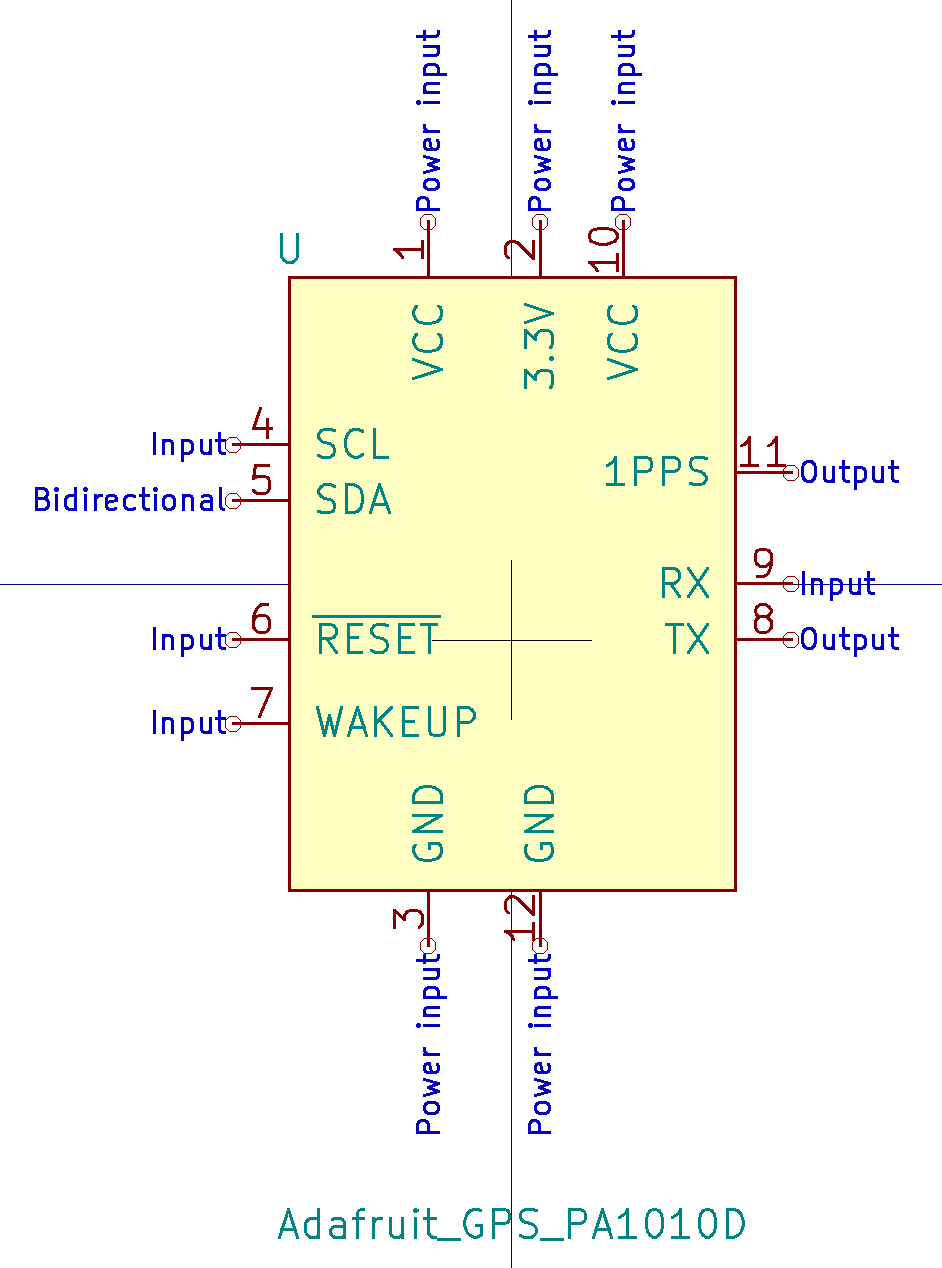
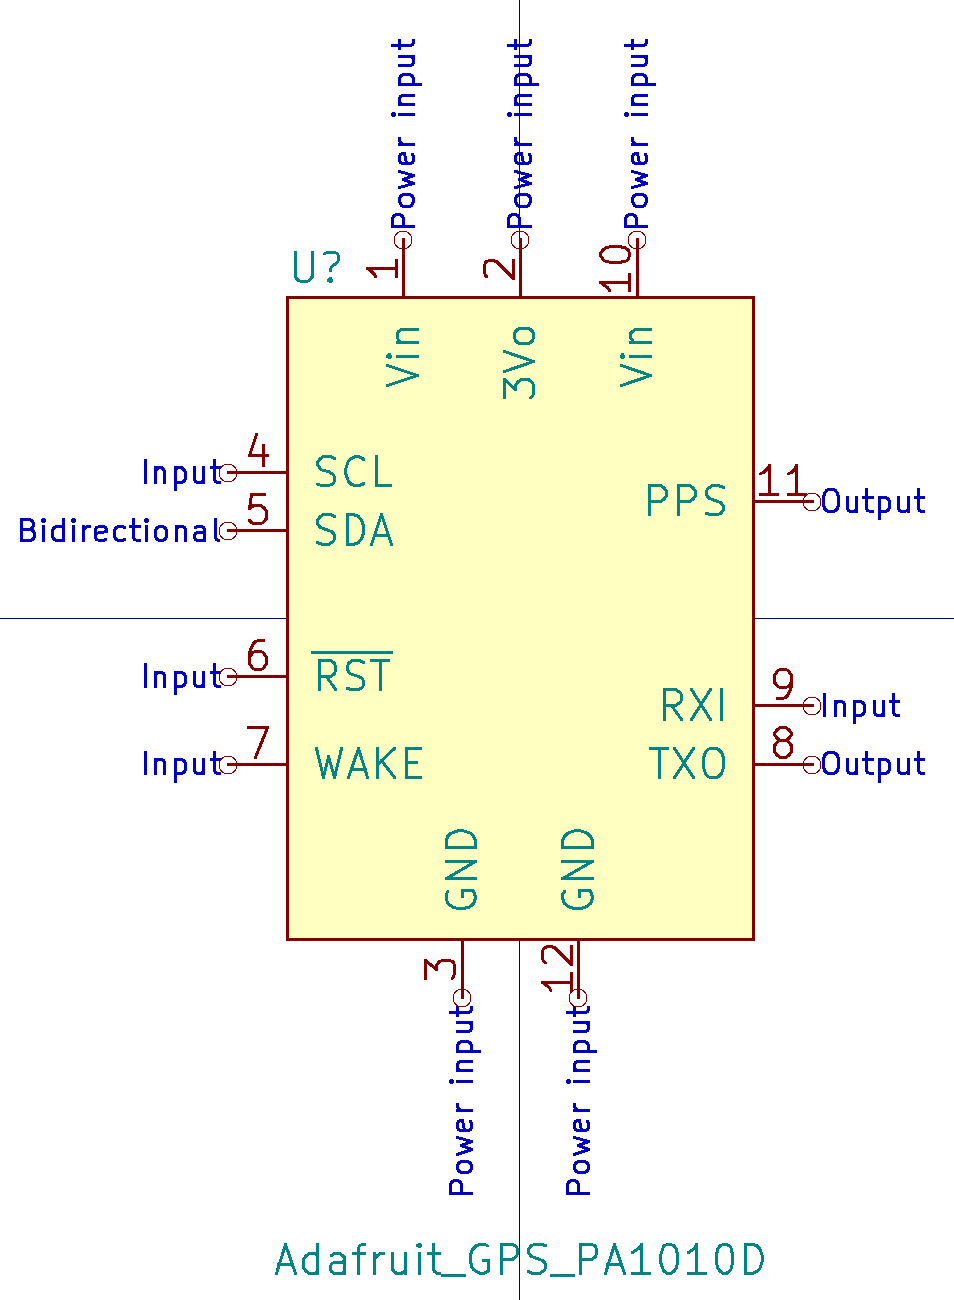
refactor: standardise image and headings for symbols

Changed region(s): [[0.0, 0.0, 0.9851, 1.0], [0.3386, 0.5536, 0.4926, 0.6151], [0.7081, 0.4306, 0.7389, 0.4614]]

diff --git a/symbols/readme.md b/symbols/readme.md
@@ -2,40 +2,40 @@
 <!-- DON'T EDIT THIS SECTION, INSTEAD RE-RUN doctoc TO UPDATE -->
 **Table of Contents**
 
-- [Adafruit_nRF52_feather](#adafruit_nrf52_feather)
-- [Adafruit_sharp_display](#adafruit_sharp_display)
 - [Adafruit RFM9x LoRaWAN](#adafruit-rfm9x-lorawan)
+- [Adafruit nRF52 feather](#adafruit-nrf52-feather)
 - [Adafruit PA1010D GPS](#adafruit-pa1010d-gps)
+- [Adafruit sharp display](#adafruit-sharp-display)
 - [CDTop PA1010D GPS](#cdtop-pa1010d-gps)
 - [Robotdyn SAMD21 M0 mini](#robotdyn-samd21-m0-mini)
 - [SiLabs CP2102 USB to UART bridge](#silabs-cp2102-usb-to-uart-bridge)
 - [SiLabs Si7021 breakout board](#silabs-si7021-breakout-board)
-- [Vishay Sensor_UV](#vishay-sensor_uv)
-- [Waveshare E-ink 1.54inch](#waveshare-e-ink-154inch)
+- [Vishay VEML6075 UV sensor](#vishay-veml6075-uv-sensor)
+- [Waveshare E-paper 1.54inch](#waveshare-e-paper-154inch)
 - [WeMos ESP8266 battery shield](#wemos-esp8266-battery-shield)
 - [WeMos D1 mini](#wemos-d1-mini)
 
 <!-- END doctoc generated TOC please keep comment here to allow auto update -->
 
-## Adafruit_nRF52_feather
-
-![](../images/symbols/Adafruit_nRF52_feather.png)
-
-## Adafruit_sharp_display
-
-![](../images/symbols/Adafruit_sharp_display.png)
-
 ## Adafruit RFM9x LoRaWAN
 
 ![](../images/symbols/adafruit_lorawan_rfm9x.png)
+
+## Adafruit nRF52 feather
+
+![](../images/symbols/adafruit_nRF52_feather.png)
 
 ## Adafruit PA1010D GPS
 
 ![](../images/symbols/adafruit_pa1010d_gps.png)
 
+## Adafruit sharp display
+
+![](../images/symbols/adafruit_sharp_display.png)
+
 ## CDTop PA1010D GPS
 
-![](../images/symbols/PA1010D.png)
+![](../images/symbols/cdtop_pa1010d_gps.png)
 
 ## Robotdyn SAMD21 M0 mini
 
@@ -43,17 +43,17 @@
 
 ## SiLabs CP2102 USB to UART bridge
 
-![](../images/symbols/SiLabs_CP2012_USB_UART_Bridge.png)
+![](../images/symbols/silabs_cp2012_usb_uart_bridge.png)
 
 ## SiLabs Si7021 breakout board
 
-![](../images/symbols/Si7021_breakout_board.png)
+![](../images/symbols/silabs_si7021_breakout.png)
 
-## Vishay Sensor_UV
+## Vishay VEML6075 UV sensor
 
-![](../images/symbols/Sensor_UV.png)
+![](../images/symbols/vishay_veml6075_uv.png)
 
-## Waveshare E-ink 1.54inch
+## Waveshare E-paper 1.54inch
 
 ![](../images/symbols/waveshare_1in54_epaper.png)
 
@@ -63,4 +63,4 @@
 
 ## WeMos D1 mini
 
-![](../images/symbols/wemos_mini.png)
+![](../images/symbols/wemos_d1_mini.png)
